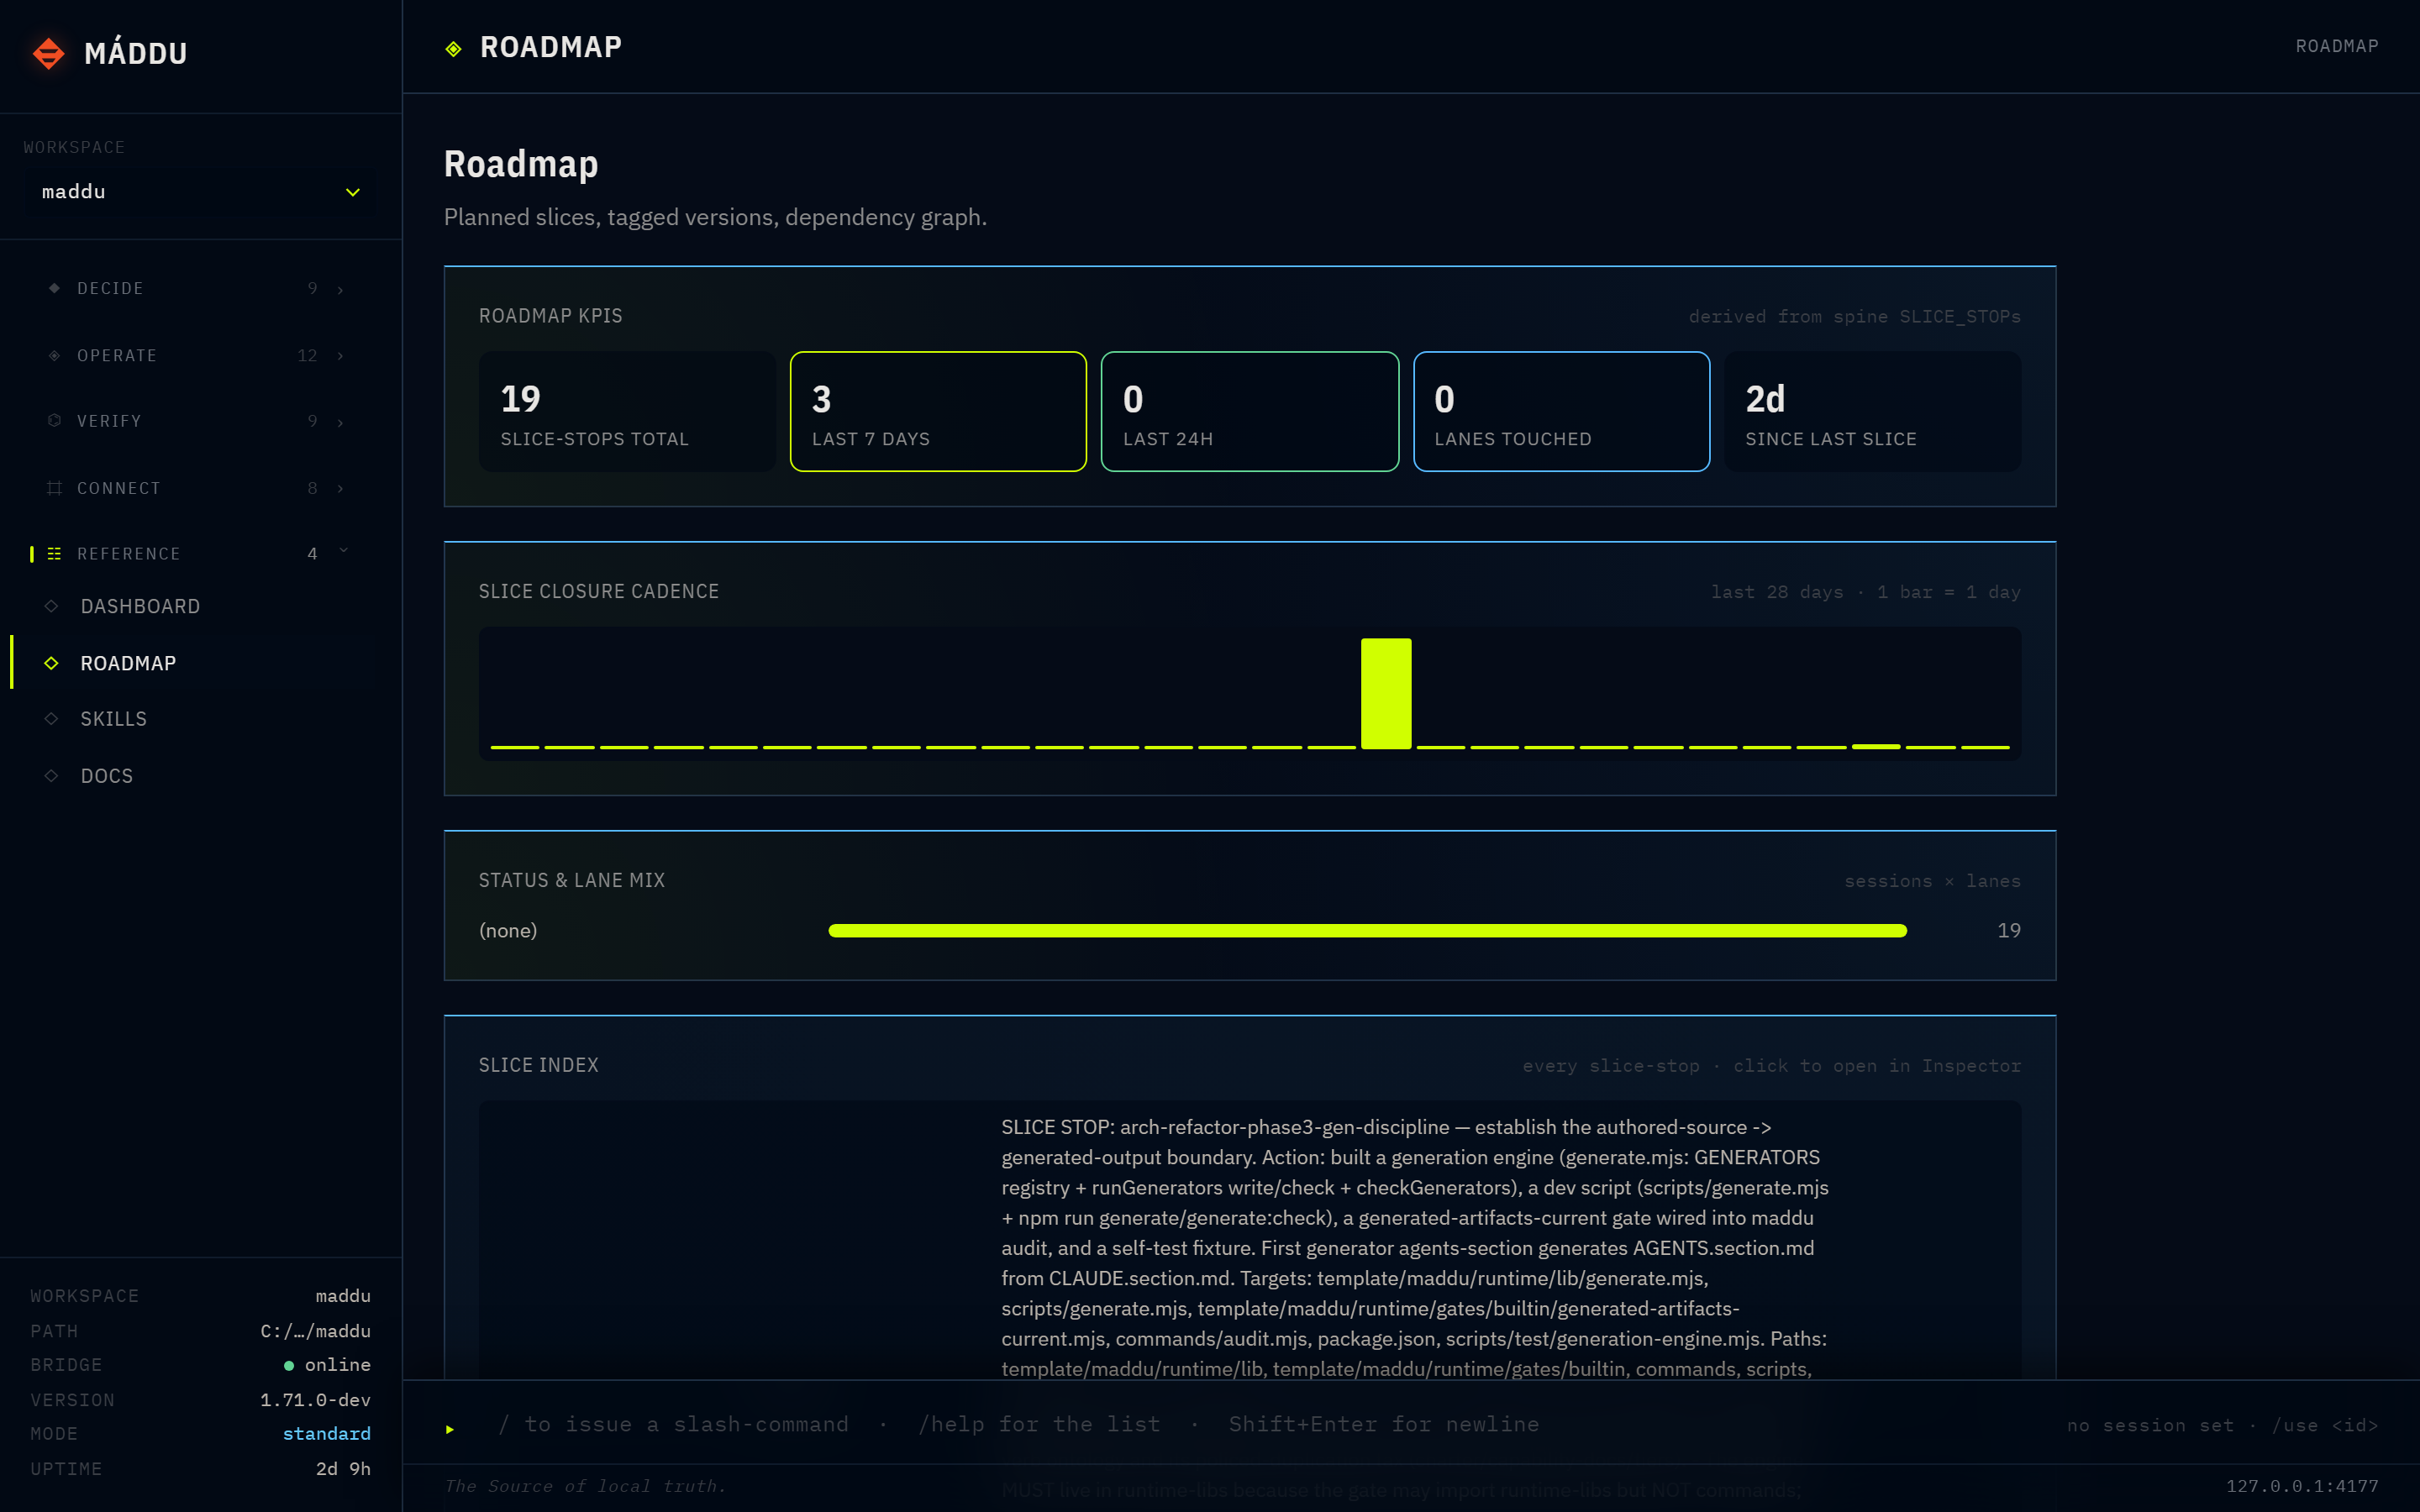
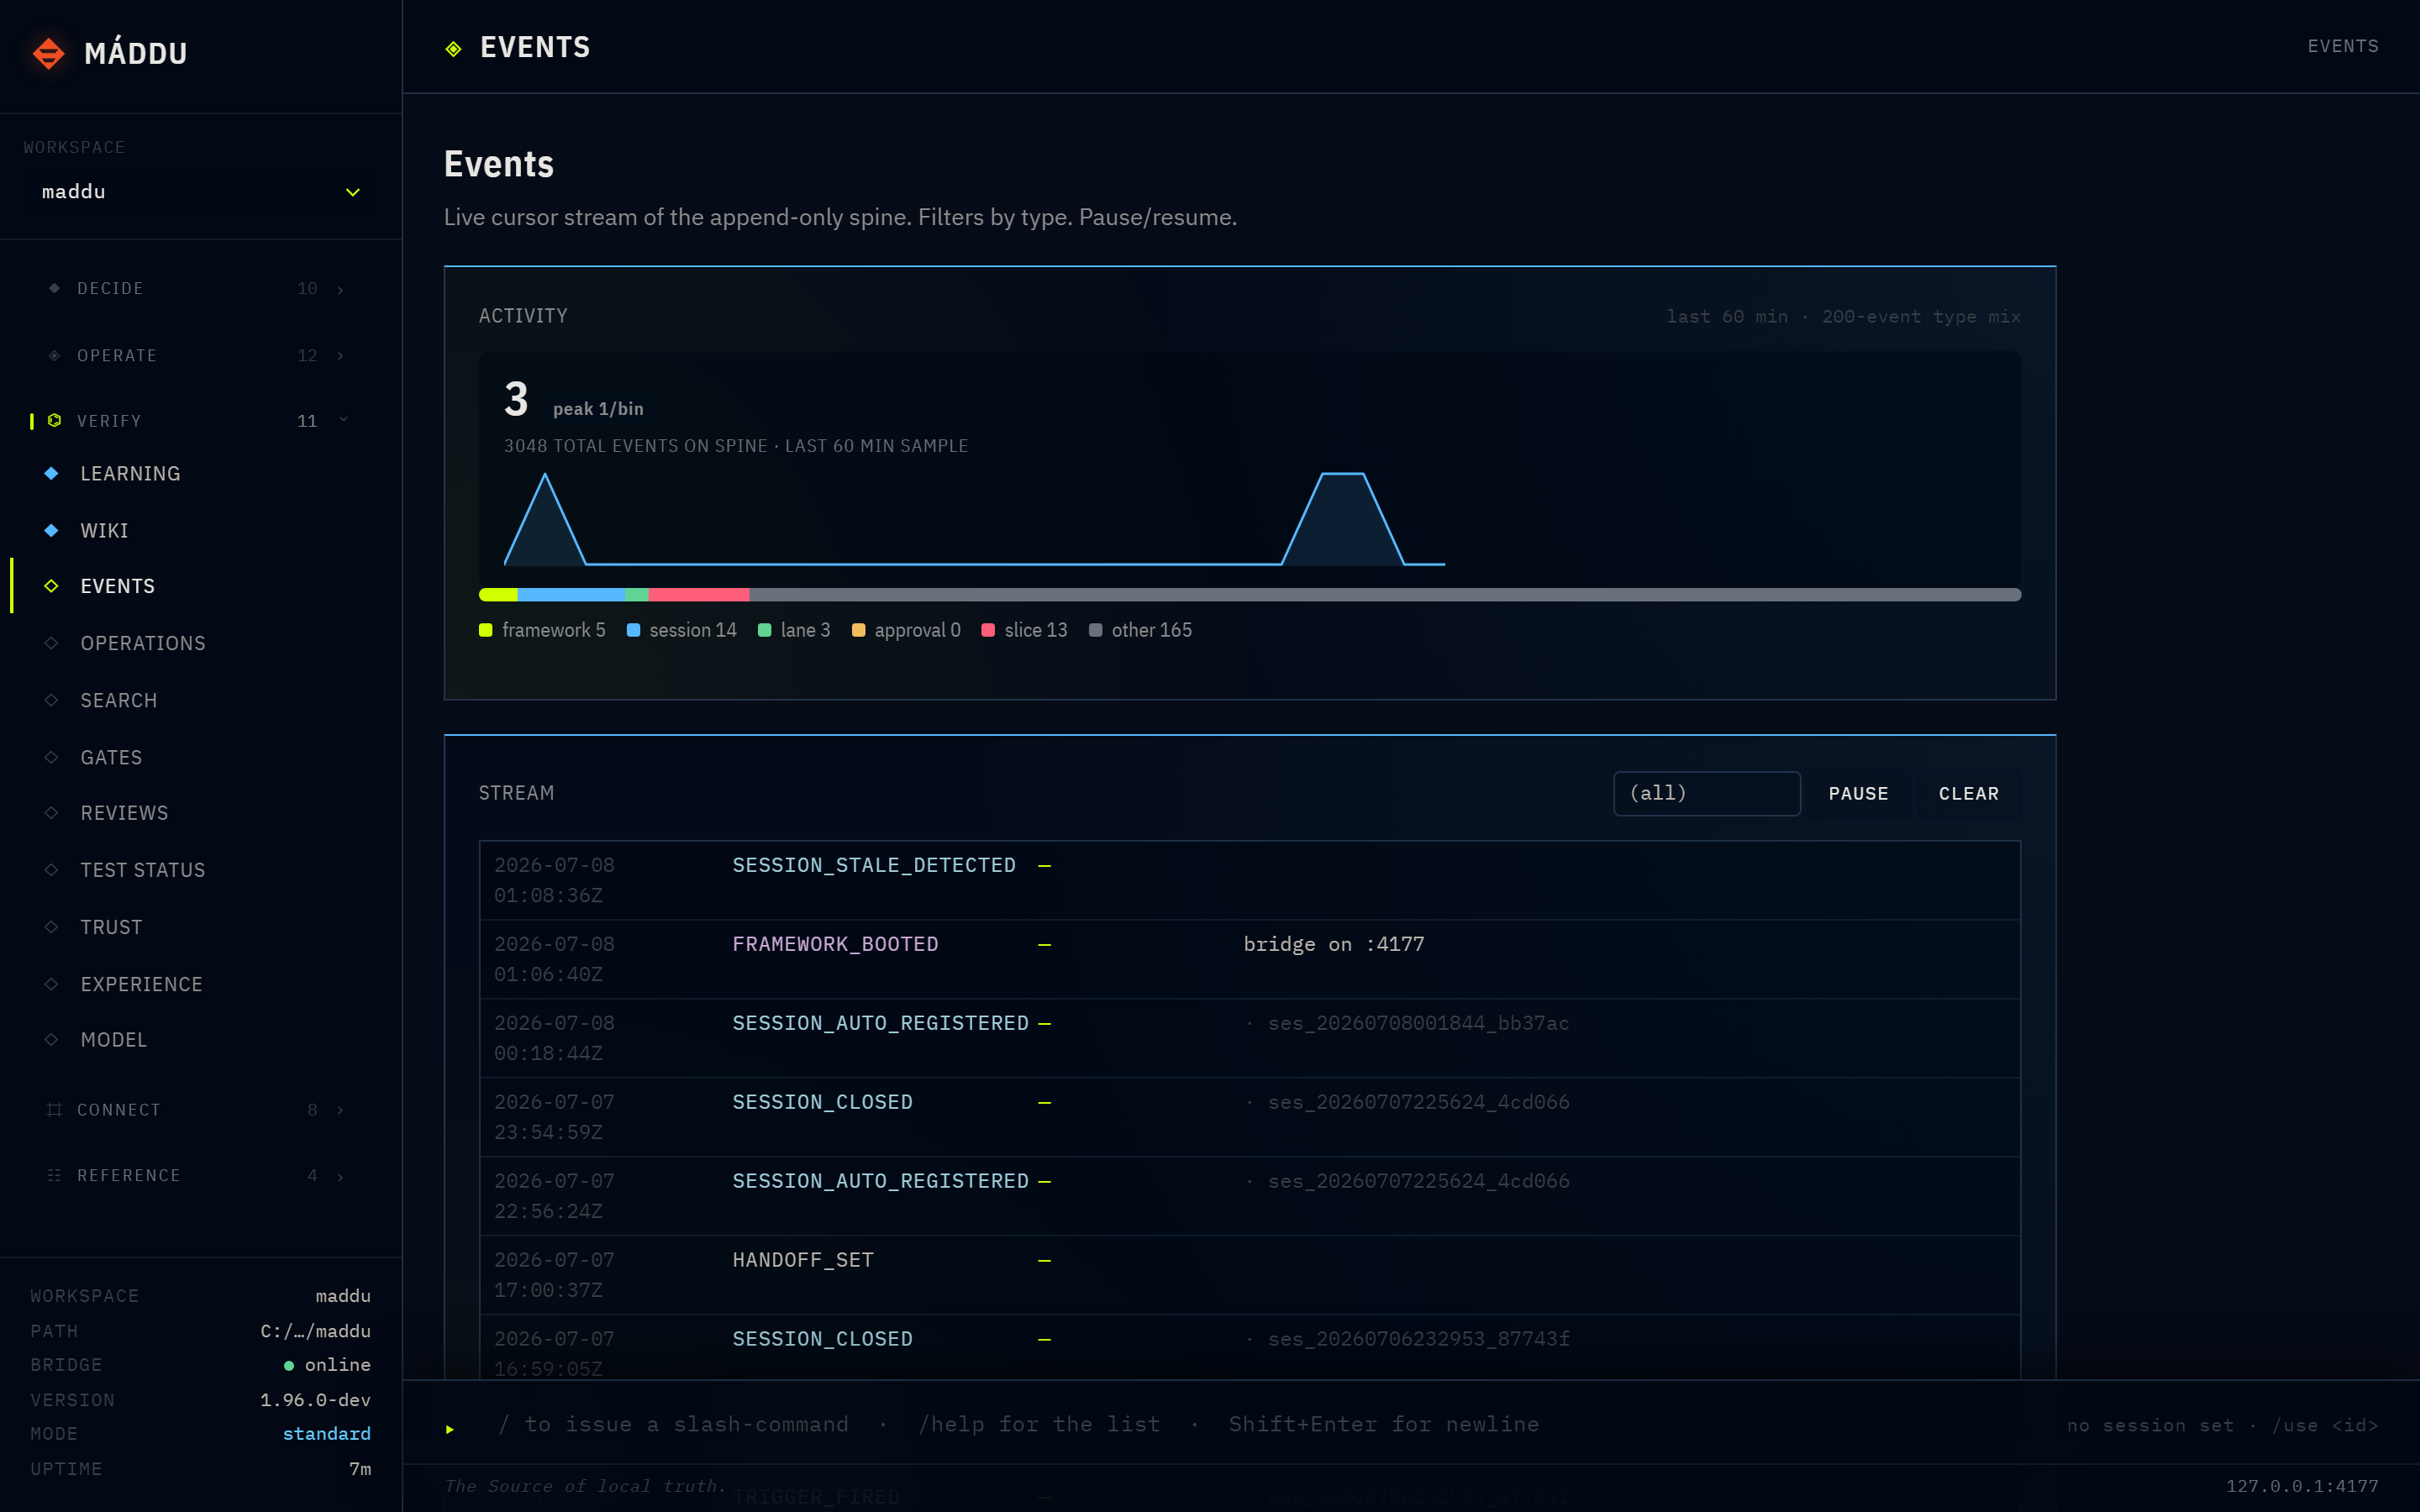
docs(readme): new cockpit hero — Events route (the record as witness)
Swap the README/landing hero screenshot from the Roadmap route to the
Events route: a live cursor stream of the append-only spine (activity
chart, event-type mix, raw typed events, Verify cluster in the rail).
On-thesis with the verification-led hero copy and, unlike roadmap/
workbench, leaks no internal slice-stop prose. Captured live off
maddu's own repo at 2880x1800 via scripts/capture-cockpit-shot.mjs.
Alt text updated to match.

diff --git a/README.md b/README.md
@@ -31,7 +31,7 @@ Máddu spawns no models, stores no secrets, calls no clouds.
 
 <div align="center">
 
-<a href="https://maddu.frdyx.com"><picture><img alt="The Máddu cockpit on the Roadmap route — KPI tiles (slice-stops total, last 7 days, since last slice), a 28-day slice-closure cadence chart, and the slice index, all read live from the append-only spine" src="docs/images/cockpit-hero.png" width="920"></picture></a>
+<a href="https://maddu.frdyx.com"><picture><img alt="The Máddu cockpit on the Events route — a live cursor stream of the append-only spine: an activity chart over the last 60 minutes, the event-type mix (framework, session, lane, approval, slice), and the raw typed stream (FRAMEWORK_BOOTED, SESSION_AUTO_REGISTERED, HANDOFF_SET, SLICE_STOP), with the Verify cluster in the rail" src="docs/images/cockpit-hero.png" width="920"></picture></a>
 
 <sub>*The cockpit, dogfooded on Máddu's own repo — every tile read live from the append-only spine.*</sub>
 